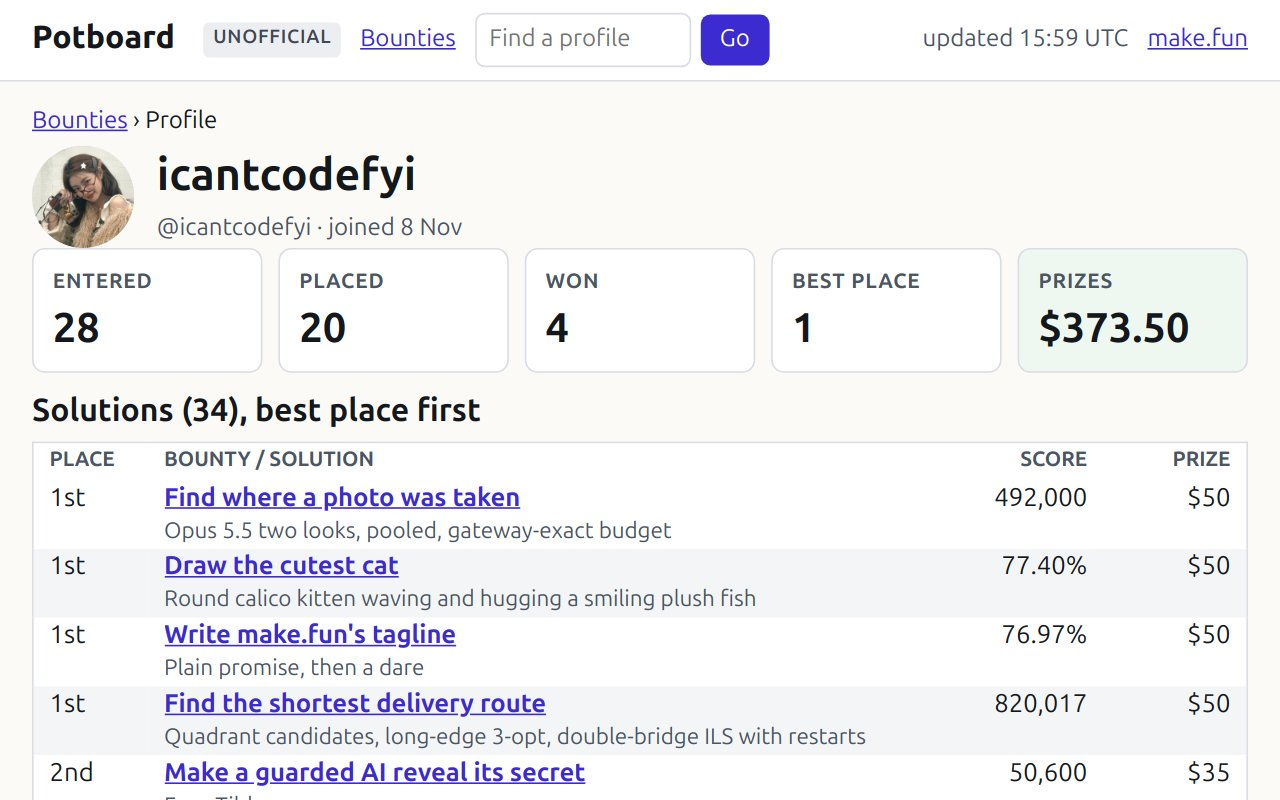
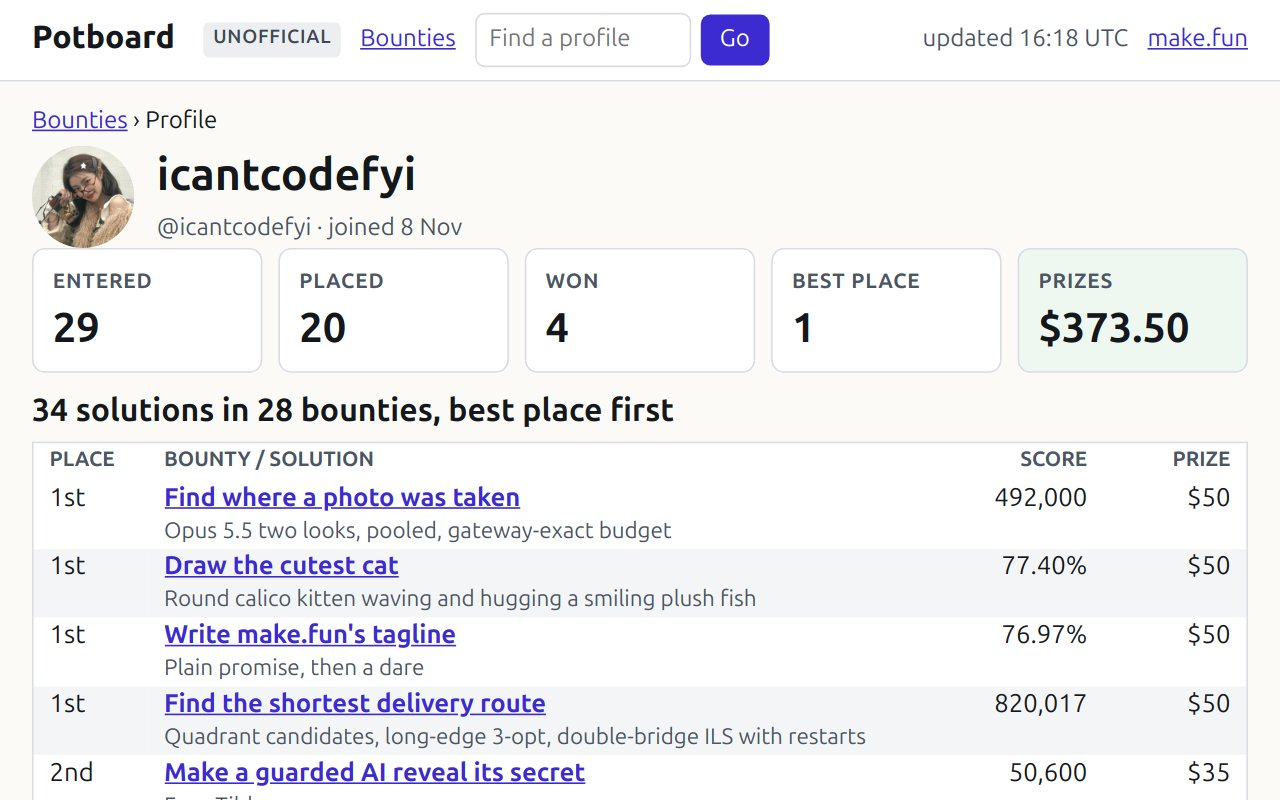
Facts band says 'incl. $X from N fees', board rows show only the pot; tab 'N ranked of M entries'; profile 'n solutions in m bounties'; entry link; time left counts from the stamp's minute; outline comments; fresh shots

Changed region(s): [[0.0312, 0.5, 0.5312, 0.5312], [0.8125, 0.0312, 0.8438, 0.0625], [0.0625, 0.4062, 0.0938, 0.4375]]

diff --git a/app/views.js b/app/views.js
@@ -2,7 +2,8 @@ import { esc, money, left, chip, fee, link } from './app.js';
 
 function bounty(c) {
   const n = c.submissionCount || 0;
-  const fees = Number(c.entryFeesUsd) > 0 ? '<small>incl. ' + money(c.entryFeesUsd) + ' fees</small>' : '';
+  const fees = Number(c.entryFeesUsd) > 0 ? '<small>incl. ' + money(c.entryFeesUsd)
+    + (c.entryFeePayers ? ' from ' + Number(c.entryFeePayers).toLocaleString('en-US') + ' fees' : ' fees') + '</small>' : '';
   document.title = c.title + ' - Potboard (unofficial)';
   return `<div data-k=h><p class=crumb><a href="#/">Bounties</a> › ${esc(c.title)}</p>
 <h1>${esc(c.title)} ${chip(c, true)}</h1><p class="meta one" title="${esc(c.summary || '')}">${esc(c.summary || '')}</p>
@@ -12,7 +13,8 @@ ${tabs(c.slug, n, false)}</div>
 <div><span class=lab>Time left</span><b data-t=${esc(c.deadline)}>${left(c.deadline)}</b><small>${when(c.deadline, MINZ)}</small></div>
 <div><span class=lab>Entries</span><b>${n.toLocaleString('en-US')}</b></div></div>
 <div class=two data-k=two><section>${rewards(c)}</section><section>${dates(c)}
-<p><a class=btn href="${link(c.slug)}/leaderboard">Full leaderboard</a></p></section></div>
+<p><a class=btn href="${link(c.slug)}/leaderboard">Full leaderboard</a>
+<a class=btn href="https://make.fun/bounty/${encodeURIComponent(c.slug)}" target=_blank rel=noopener>Enter on make.fun ↗</a></p></section></div>
 <div data-k=md>${c.description ? '<h2>Description</h2><div class=md>' + md(c.description) + '</div>' : ''}
 ${c.rules ? '<h2>Rules</h2><div class=md>' + md(c.rules) + '</div>' : '<p class=note>Loading rules...</p>'}</div>`;
 }
@@ -29,7 +31,7 @@ function leaderboard(d, page = 1, item) { // 50 rows a page
   const pg = pager(p, pages, all.length, slug, ph);
   document.title = 'Leaderboard: ' + title + ' - Potboard (unofficial)';
   return `<div data-k=h><p class=crumb><a href="#/">Bounties</a> › <a href="${link(slug)}">${esc(title)}</a></p>
-<h1>${esc(title)}</h1>${tabs(slug, all.length, true)}</div>
+<h1>${esc(title)}</h1>${tabs(slug, all.length, true, item && item.submissionCount)}</div>
 ${pg}
 <table class=lb data-k=p${p}><thead><tr><th class=num>#</th><th>Entrant</th>
 <th class=num>${esc(col.title)}${micro(col.source) ? '<small>90% interval</small>' : ''}</th><th class=num>Prize</th></tr></thead>
@@ -46,7 +48,7 @@ function profile(u) {
 <h1>${esc(u.display_name || u.handle)}</h1><p class=meta>@${esc(u.handle)}${joined(u.joined_at)}</p></div></div></div>
 <div class=tiles data-k=t>${tile('Entered', r.competitions_entered)}${tile('Placed', r.competitions_placed)}
 ${tile('Won', r.competitions_won)}${tile('Best place', r.best_placement)}${tile('Prizes', money(r.prize_usd))}</div>
-<div data-k=s class=pf><h2>Solutions (${sol.length}), best place first</h2><table class=sol><thead><tr><th>Place</th>
+<div data-k=s class=pf><h2>${solHead(sol)}, best place first</h2><table class=sol><thead><tr><th>Place</th>
 <th>Bounty / solution</th><th class=num>Score</th><th class=num>Prize</th></tr></thead><tbody>${sol.slice(0, 20).map(solRow).join('')}</tbody></table>
 ${sol.length > 20 ? '<p class=meta>Showing the first 20 of ' + sol.length + '.</p>' : ''}</div>`;
 }
@@ -155,10 +157,21 @@ function place(n) {
   return Number(n) + s;
 }
 
-function tabs(slug, n, lb) {
+function tabs(slug, n, lb, e) {
   const cur = ' aria-current=page';
+  const tail = e ? ' of ' + Number(e).toLocaleString('en-US') + ' entries' : '';
   return '<nav class=tabs><a href="' + link(slug) + '"' + (lb ? '' : cur) + '>Overview</a><a href="' + link(slug)
-    + '/leaderboard"' + (lb ? cur + '>Leaderboard (' + Number(n).toLocaleString('en-US') + ' ranked)' : '>Leaderboard') + '</a></nav>';
+    + '/leaderboard"' + (lb ? cur + '>Leaderboard (' + Number(n).toLocaleString('en-US') + ' ranked' + tail + ')' : '>Leaderboard')
+    + '</a></nav>';
+}
+
+function solHead(sol) {
+  const m = new Set(sol.map(solSlug)).size;
+  return sol.length + (sol.length === 1 ? ' solution in ' : ' solutions in ') + m + (m === 1 ? ' bounty' : ' bounties');
+}
+
+function solSlug(s) {
+  return (s.competition || {}).slug || '';
 }
 
 function inline(s) {

diff --git a/app/app.js b/app/app.js
@@ -1,11 +1,11 @@
-const ROUTES = { // #/ #/bounty/:s #/bounty/:s/leaderboard/:p #/u/:h
+const ROUTES = { // 1 endpoint a view
   board: () => '/competitions?status=open&activity=times',
   bounty: (s) => '/competitions/' + s + '?submissions=summary',
   leaderboard: (s) => '/competitions/' + s + '/leaderboard?rows=first',
   profile: (h) => '/profiles/' + h,
 };
 
-async function api(path) { // Map cache + ETag revalidation; 1 JSON endpoint a view
+async function api(path) { // Map cache + ETag revalidation + in-flight dedupe
   const old = cache.get(path);
   const m = Math.floor(Date.now() / 60000);
   if (old && old.minute === m) return old.data;
@@ -15,7 +15,7 @@ async function api(path) { // Map cache + ETag revalidation; 1 JSON endpoint a v
   try { return await p; } finally { inflight.delete(path); }
 }
 
-function board(data) { // keyed rows, patched in place
+function board(data) { // keyed rows patched in place: pot, fee, time left, entries
   const now = Date.now();
   const open = [];
   const soon = [];
@@ -130,7 +130,7 @@ export function money(v) {
 }
 
 export function left(iso) {
-  const ms = Date.parse(iso) - Date.now();
+  const ms = Date.parse(iso) - Math.floor(Date.now() / 60000) * 60000;
   if (!(ms > 0)) return 'Closed';
   const h = Math.floor(ms / 3600000);
   const m = Math.floor(ms / 60000) % 60;
@@ -206,15 +206,11 @@ function head(k) {
     + '<span>Time left</span><span>Entries</span></div>';
 }
 
-function incl(b) {
-  return Number(b.entryFeesUsd) > 0 ? '<small>incl. ' + money(b.entryFeesUsd) + ' fees</small>' : '';
-}
-
 function row(b) {
   const places = b.rewardsNow ? b.rewardsNow.length : 0;
   return `<a class=row data-k=${esc(b.slug)} href="${link(b.slug)}"><div><span class=t>${esc(b.title)}</span>
 <br><small>${esc(b.category)} · ${esc(b.sponsor && b.sponsor.name)} · ${say(places, 'place')}</small></div>
-<b data-l="Live pot">${money(b.potUsd)}${incl(b)}</b><b data-l="Entry fee">${fee(b.entryFeeUsd)}</b>
+<b data-l="Live pot">${money(b.potUsd)}</b><b data-l="Entry fee">${fee(b.entryFeeUsd)}</b>
 <b data-l="Time left">${chip(b)}</b><b data-l=Entries>${(b.submissionCount || 0).toLocaleString('en-US')}</b></a>`;
 }
 
